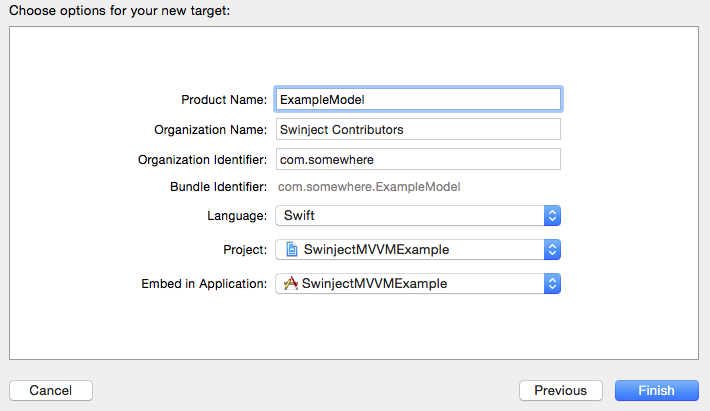
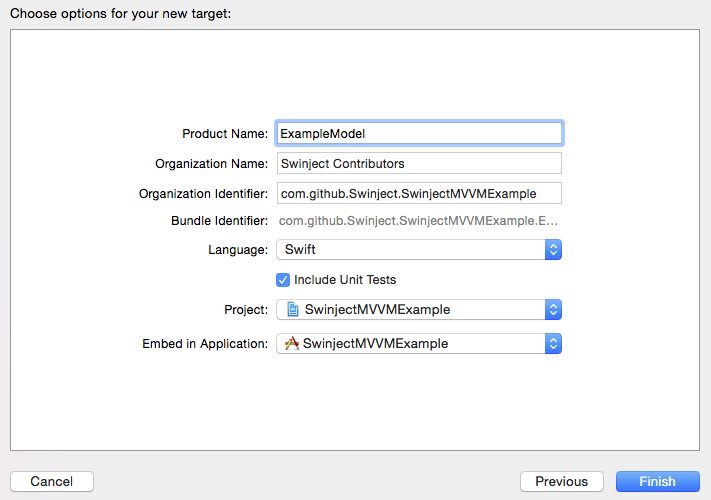
Fix some mistakes and make expressions clearer.

diff --git a/content/post/2015-08-29-dependency-injection-in-mvvm-architecture-with-reactivecocoa-part2-project-setup.md b/content/post/2015-08-29-dependency-injection-in-mvvm-architecture-with-reactivecocoa-part2-project-setup.md
@@ -7,9 +7,9 @@ title = "Dependency Injection in MVVM Architecture with ReactiveCocoa Part 2: Pr
 
 +++
 
-In [the last blog post](/post/dependency-injection-in-mvvm-architecture-with-reactivecocoa-part-1-introduction/), the basic concepts of MVVM and [ReactiveCocoa](https://github.com/ReactiveCocoa/ReactiveCocoa) were introduced. From this blog post, we are going to develop an example app to demonstrate dependency injection with [Swinject](https://github.com/Swinject/Swinject) in MVVM architecture. We will use ReactiveCococa to handle events on MVVM components. In this blog post, you will learn how to setup an Xcode project composing MVVM components as representing frameworks.
+In [the last blog post](/post/dependency-injection-in-mvvm-architecture-with-reactivecocoa-part-1-introduction/), the basic concepts of MVVM (Model-View-ViewModel) and [ReactiveCocoa](https://github.com/ReactiveCocoa/ReactiveCocoa) were introduced. From this blog post, we are going to develop an example app to demonstrate dependency injection with [Swinject](https://github.com/Swinject/Swinject) in MVVM architecture. We will use ReactiveCococa to handle events passed between MVVM components. In this blog post, you will learn how to setup an Xcode project composing Molel, View and ViewModel as  frameworks.
 
-The app we are going to develop asynchronously searches, downloads and displays images obtained from [Pixabay](https://pixabay.com) via [its API](https://pixabay.com/api/docs/), as shown in the GIF animation below. The source code used in the blog posts is available at [a repository on GitHub](https://github.com/Swinject/SwinjectMVVMExample).
+The example app asynchronously searches, downloads and displays images obtained from [Pixabay](https://pixabay.com) via [its API](https://pixabay.com/api/docs/), as shown in the GIF animation below. The source code used in the blog posts is available at [a repository on GitHub](https://github.com/Swinject/SwinjectMVVMExample).
 
 ![SwinjectMVVMExample ScreenRecord](/images/post/2015-08/SwinjectMVVMExampleScreenRecord.gif)
 
@@ -20,9 +20,9 @@ The app we are going to develop asynchronously searches, downloads and displays 
 - [Carthage](https://github.com/Carthage/Carthage) 0.8 or later
 - [Pixabay](https://pixabay.com/api/docs/) API username and key
 
-We are going to use Swift 2.0 with Xcode 7 though they are still beta versions. To use with Swift 2, we are going to use development version of ReactiveCocoa in [swift2 branch](https://github.com/ReactiveCocoa/ReactiveCocoa/tree/swift2). Notice that ReactiveCocoa 3.0 has functional style APIs like `|> map` or `|> flatMap`, but APIs in swift2 branch are in protocol oriented style like `.map()` or `.flatMap()`. Since swift2 branch is still in development, the APIs might be changed in the future.
+We are going to use Swift 2.0 with Xcode 7 though they are still in beta versions. To use with Swift 2, a development version of ReactiveCocoa in [swift2 branch](https://github.com/ReactiveCocoa/ReactiveCocoa/tree/swift2) will be used. Notice that ReactiveCocoa 3.0 has functional style APIs like `|> map` or `|> flatMap`, but APIs in swift2 branch are in protocol oriented and fluent style like `.map()` or `.flatMap()`. Since swift2 branch is still in development, the APIs might be changed in the future.
 
-Carthage can be installed by [its installer](https://github.com/Carthage/Carthage/releases) `Carthage.pkg`, or [Homebrew](http://brew.sh/) with the following commands.
+Carthage can be installed by [its installer (Carthage.pkg)](https://github.com/Carthage/Carthage/releases), or [Homebrew](http://brew.sh/) with the following commands.
 
     brew update
     brew install carthage
@@ -31,9 +31,9 @@ You can get a free API username and key at [Pixabay](https://pixabay.com/). Firs
 
 ## Project Setup Overview
 
-In [the last blog post](/post/dependency-injection-in-mvvm-architecture-with-reactivecocoa-part-1-introduction/), we have learnt View depends on ViewModel and ViewModel on Model in MVVM architecture. How can we force the direction of dependencies when we write protocols, classes or structs representing Models, Views and ViewModels? It is easy to get chaotic if all the types are placed in a directory, or even in an application target. Java or .NET applications are often composed of several [JAR](https://en.wikipedia.org/wiki/JAR_%28file_format%29)s or [DLL](https://en.wikipedia.org/wiki/Dynamic-link_library)s to make the responsibilities of the components explicit.
+In [the last blog post](/post/dependency-injection-in-mvvm-architecture-with-reactivecocoa-part-1-introduction/), we learned View depended on ViewModel and ViewModel on Model in MVVM architecture. How can we force the direction of dependencies when we write protocols, classes or structs representing Models, Views or ViewModels? It is easy to get chaotic if all the types are placed in a directory, or even in an application target.
 
-Since iOS 8 has introduced dynamic frameworks, it is easy to setup an iOS app composed of frameworks. The architecture of an iOS app containing Model, View and ViewModel frameworks, as diagrammed in the image below, ensures that the direction of dependencies is from View to ViewModel and ViewModel to Model with the dependencies injected by the application. If you make a type in ViewModel framework, it can reference types in Model framework but cannot those in View framework.
+Java or .NET applications are often composed of several [JAR](https://en.wikipedia.org/wiki/JAR_%28file_format%29)s or [DLL](https://en.wikipedia.org/wiki/Dynamic-link_library)s to make the responsibilities of the components explicit. Since iOS 8 has introduced dynamic frameworks, it is easy to setup an iOS app composed of several dynamic frameworks. The architecture of an iOS app containing Model, View and ViewModel frameworks, as diagrammed in the image below, ensures that the direction of the dependencies is from View to ViewModel and ViewModel to Model with the dependencies injected by the application. For example, if you make a type in ViewModel framework, it can reference types in Model framework but cannot those in View framework.
 
 The architecture keeps the consistency of the direction of the dependencies, and makes the app easy to develop, test and maintain.
 
@@ -45,15 +45,17 @@ Let's start creating our Xcode project composing the MVVM frameworks. Select `Fi
 
 ![Screenshot New Project](/images/post/2015-08/SwinjectMVVMExampleScreenshotNewProject.png)
 
+Next we are going to add Model, View and ViewModel frameworks. They will be named `ExampleModel`, `ExampleView` and `ExampleViewModel`, respectively, in our example app. When you create your own app, it is recommended to name the frameworks as `YourAppName` + `Model`, `View`, and `ViewModel`. For exampe, if your app name is `Foobook`, your framework names may be `FoobookModel`, `FoobookView` and `FoobookViewModel`.
+
 Select `File > New > Target...` menu and `iOS > Framework & Library > Cocoa Touch Framework`. Click `Next` button. In the next page, set product name to `ExampleModel`, language to Swift. Keep `Include Unit Test` checked and click `Finish`. In the same way, add `ExampleViewModel` and `ExampleView` framework targets.
 
 ![Screenshot New Target](/images/post/2015-08/SwinjectMVVMExampleScreenshotNewTarget.png)
 
-Right click on `SwinjectMVVMExample` in Project Navigator (the left pane in Xcode), and select `New Group`. Name the new group to `Tests`. Drag `ExampleModel`, `ExampleViewModel`, `ExampleView`, `ExampleModelTests`, `ExampleViewModelTests`, `ExampleViewTests` and `SwinjectMVVMExampleTests` in Project Navigator, and place them as shown in the image below. Select `SwinjectMVVMExample` in Project Navigator, and order targets by dragging as shown in the image.
+Right click on `SwinjectMVVMExample` in Project Navigator (the left pane in Xcode), and select `New Group`. Set the group name to `Tests`. Drag `ExampleModel`, `ExampleViewModel`, `ExampleView`, `ExampleModelTests`, `ExampleViewModelTests`, `ExampleViewTests` and `SwinjectMVVMExampleTests` in Project Navigator, and place them as shown in the image below. Select `SwinjectMVVMExample` in Project Navigator, and order the targets by dragging as shown in the image.
 
 ![Screenshot Project Hierarchy](/images/post/2015-08/SwinjectMVVMExampleScreenshotProjectHierarchy.png)
 
-Select `SwinjectMVVMExample` in Project Navigator, and select `ExampleViewModel` in Targets area. In Build Phases tab, click `+` button in Target Dependencies section, and add `ExampleModel`. Click `+` button in Link Binary with Libraries section, and add `ExampleModel.framework`. In the same way, add `ExampleViewModel` and `ExampleViewModel.framework` to `ExampleView` target. Target settings of `ExampleModel` and `SwinjectMVVMExample` can be left as they are.
+We are going to configure dependency and link settings of the targets. Select `SwinjectMVVMExample` in Project Navigator, and select `ExampleViewModel` in Targets area. In Build Phases tab, click `+` button in Target Dependencies section, and add `ExampleModel`. Click `+` button in Link Binary with Libraries section, and add `ExampleModel.framework`. In the same way, add `ExampleViewModel` and `ExampleViewModel.framework` to those of `ExampleView` target. Target settings of `ExampleModel` and `SwinjectMVVMExample` can be left because `ExampleModel` has no dependencies and `SwinjectMVVMExample` has those settings by default.
 
 ![Screenshot Target Settings ExampleModel](/images/post/2015-08/SwinjectMVVMExampleScreenshotTargetSettingsExampleModel.png)
 
@@ -63,11 +65,11 @@ Select `SwinjectMVVMExample` in Project Navigator, and select `ExampleViewModel`
 
 ![Screenshot Target Settings SwinjectMVVMExample](/images/post/2015-08/SwinjectMVVMExampleScreenshotTargetSettingsSwinjectMVVMExample.png)
 
-Next, we are going to configure unit test targets. Select `SwinjectMVVMExample` in Project Navigator, and select `ExampleModelTests` in Targets area. In General tab, set Host Application to `None`. In the same way, set Host Application of `ExampleViewModelTests` and `ExampleViewTests` to `None`.
+We are going to configure unit test targets too. Select `SwinjectMVVMExample` in Project Navigator, and select `ExampleModelTests` in Targets area. In General tab, set Host Application to `None`. In the same way, set Host Application of `ExampleViewModelTests` and `ExampleViewTests` to `None`.
 
-Again select `ExampleModelTests` in Targets area. In Build Phases tab, select `SwinjectMVVMExample` in Target Dependencies section, and click `-` button to remove it. In the same remove target dependency on `SwinjectMVVMExample` from `ExampleViewModelTests` and `ExampleViewTests`.
+Again select `ExampleModelTests` in Targets area. In Build Phases tab, remove `SwinjectMVVMExample` in Target Dependencies section by selecting it and click `-` button. In the same remove target dependency on `SwinjectMVVMExample` from `ExampleViewModelTests` and `ExampleViewTests`.
 
-Select `ExampleViewModelTests` in Targets area. In Build Phases tab, add `ExampleModel.framework` to Link Binary with Libraries section. In the same way, add `ExampleViewModel.framework` to `ExampleViewTests`
+Select `ExampleViewModelTests` in Targets area. In Build Phases tab, add `ExampleModel.framework` to Link Binary with Libraries section. In the same way, add `ExampleViewModel.framework` to that of `ExampleViewTests`. We need those links to stub or mock types in the linked frameworks.
 
 ![Screenshot Target Settings ExampleModelTests](/images/post/2015-08/SwinjectMVVMExampleScreenshotTargetSettingsExampleModelTests.png)
 
@@ -77,13 +79,13 @@ Select `ExampleViewModelTests` in Targets area. In Build Phases tab, add `Exampl
 
 ![Screenshot Target Settings SwinjectMVVMExampleTests](/images/post/2015-08/SwinjectMVVMExampleScreenshotTargetSettingsSwinjectMVVMExampleTests.png)
 
-Click scheme button on the Xcode toolbar, and select `Manage Schemes...` If you see `ExampleModel`, `ExampleViewModel` and `ExampleView` schemes, select them and click `-` button to delete them. Then select `SwinjectMVVMExample` scheme and click `Edit` button. Make sure that `ExampleModelTests`, `ExampleViewModelTests`, `ExampleViewTests` and `SwinjectMVVMExampleTests` are checked in Build and Test settings.
+We are going to setup a build scheme. Click scheme button on the Xcode toolbar, and select `Manage Schemes...` If you see `ExampleModel`, `ExampleViewModel` and `ExampleView` schemes, select them and click `-` button to delete them. Then select `SwinjectMVVMExample` scheme and click `Edit` button. Make sure that `ExampleModelTests`, `ExampleViewModelTests`, `ExampleViewTests` and `SwinjectMVVMExampleTests` are checked in Build and Test settings.
 
 ![Screenshot Build Scheme](/images/post/2015-08/SwinjectMVVMExampleScreenshotBuildScheme.png)
 
 ![Screenshot Test Scheme](/images/post/2015-08/SwinjectMVVMExampleScreenshotTestScheme.png)
 
-Okay, we finished setting up the project. Run the app (`Command-R`), then  unit tests (`Command-U`) to check whether the project is configured correctly. If you see an error for an umbrella header, set the target membership of the header file to the target with `Public` accessibility as shown in the image below. Xcode sometimes creates umbrella headers with wrong target memberships.
+Okay, we have finished setting up the project. Run the app (`Command-R`), then  unit tests (`Command-U`) to check whether the project is configured correctly. If you see an error for an umbrella header, set the target membership of the header file to the target with `Public` accessibility as shown in the image below. Xcode sometimes creates umbrella headers with wrong target memberships.
 
 ![Screenshot Umbrella Header](/images/post/2015-08/SwinjectMVVMExampleScreenshotUmbrellaHeader.png)
 
@@ -91,7 +93,7 @@ Okay, we finished setting up the project. Run the app (`Command-R`), then  unit 
 
 We are going to install [ReactiveCocoa](https://github.com/ReactiveCocoa/ReactiveCocoa), [Himotoki](https://github.com/ikesyo/Himotoki), [Alamofire](https://github.com/Alamofire/Alamofire), [Swinject](https://github.com/Swinject/Swinject), [Quick](https://github.com/Quick/Quick) and [Nimble](https://github.com/Quick/Nimble). We used Alamofire, Quick and Nimble in [the previous example project](/post/dependency-injection-framework-for-swift-simple-weather-app-example-with-swinject-part-1/). This time, we are going to use Himotoki, which is a type-safe JSON decoding library, in place of [SwiftyJSON](https://github.com/SwiftyJSON/SwiftyJSON). The details of Himotoki will be mentioned in the next blog post when we use it.
 
-To install them with [Carthage](https://github.com/Carthage/Carthage), add a text file named `Cartfile` with the following contents. Notice that we use the specific commit versions of some frameworks because they are still in development to support Swift 2 and Xcode 7 (beta).
+To install them with [Carthage](https://github.com/Carthage/Carthage), add a text file named `Cartfile` with the following contents. Notice that specific commit versions of some frameworks are specified because they are still in development to support Swift 2 and Xcode 7 (beta).
 
 **Cartfile**
 
@@ -105,13 +107,13 @@ To install them with [Carthage](https://github.com/Carthage/Carthage), add a tex
 
 Run `carthage update --no-build` and `carthage build` in Terminal[^2]. Wait for a couple of minutes (or more) until Carthage finishes building the frameworks. If you use [Git](https://git-scm.com), here is a [`.gitignore` for Swift](https://github.com/github/gitignore/blob/master/Swift.gitignore) excluding frameworks built by Carthage[^3].
 
-After the build completes, right click on `SwinjectMVVMExample` in Project Navigator, and select `New Group`. Name the group `Frameworks`. Drag and drop the frameworks built in `Carthage/Build/iOS` directory to the group. When you drop them, an action sheet asks you wether they should be added to targets. Uncheck all targets and click `Finish` button.
+After the build completes, right click on `SwinjectMVVMExample` in Project Navigator, and select `New Group`. Name the group `Frameworks`. Drag and drop the frameworks built in `Carthage/Build/iOS` directory in Finder to the group in Xcode. When you drop them, an action sheet asks you wether they should be added to targets. Uncheck all targets and click `Finish` button.
 
 ![Screenshot Umbrella Header](/images/post/2015-08/SwinjectMVVMExampleScreenshotUmbrellaHeaderFrameworksGroup.png)
 
-Select `SwinjectMVVMExample` in Project Navigator, and select `ExampleModel` in Target section with Build Phases tab open. Drag `Alamofire.framework`, `Himotoki.framework`, `ReactiveCocoa.framework` and `Result.framework`[^4] in the `Frameworks` group to Link Binary with Libraries section in Build Phases tab. In the same way, add `ReactiveCocoa.framework` and `Result.framework` to those of `ExampleViewModel` and `ExampleView`. Add `Swinject.framework` to that of `SwinjectMVVMExample`. Add `ReactiveCocoa.framework`, `Result.framework`, `Quick.framework` and `Nimble.framework` to those of `ExampleModelTests`, `ExampleViewModelTests` and `ExampleViewTests`. Add `Swinject.framework`, `Quick.framework` and `Nimble.framework` to that of `SwinjectMVVMExampleTests`.
+Select `SwinjectMVVMExample` in Project Navigator, and select `ExampleModel` in Target section with Build Phases tab open. Drag `Alamofire.framework`, `Himotoki.framework`, `ReactiveCocoa.framework` and `Result.framework`[^4] in the `Frameworks` group to Link Binary with Libraries section in Build Phases tab. In the same way, add `ReactiveCocoa.framework` and `Result.framework` to those of `ExampleViewModel` and `ExampleView`. Add `Swinject.framework` to that of `SwinjectMVVMExample`. Add `ReactiveCocoa.framework`, `Result.framework`, `Quick.framework` and `Nimble.framework` to those of `ExampleModelTests`, `ExampleViewModelTests` and `ExampleViewTests`. Add `Swinject.framework`, `Quick.framework` and `Nimble.framework` to that of `SwinjectMVVMExampleTests`. Alamofire and Himotoki are used only in our Model, Swinject only in our application and its test, and Quick and Nimble only in unit tests.
 
-Select `ExampleModelTests` in Target section, click `+` button under Build Phases tab, select `New Copy Files Phase` and name the new phase `Copy Frameworks`. Within the phase, set Destination to `Frameworks`. Drag `Alamofire.framework`, `Himotoki.framework`, `ReactiveCocoa.framework`, `Result.framework`, `Quick.framework` and `Nimble.framework` in `Frameworks` group on Project Navigator to `Copy Frameworks` phase. In the same way, add `Copy Frameworks` phases to `ExampleViewModelTests` and `ExampleViewTests`, and drag the 6 frameworks to the phases. Add `Copy Frameworks` phase to `SwinjectMVVMExampleTests` in the same way, and add `Quick.framework` and `Nimble.framework` to the phase.
+Select `ExampleModelTests` in Target section, click `+` button under Build Phases tab, select `New Copy Files Phase`, and name the new phase `Copy Frameworks`. Within the phase, set Destination to `Frameworks`. Drag `Alamofire.framework`, `Himotoki.framework`, `ReactiveCocoa.framework`, `Result.framework`, `Quick.framework` and `Nimble.framework` in `Frameworks` group on Project Navigator to `Copy Frameworks` phase. In the same way, add `Copy Frameworks` phases to `ExampleViewModelTests` and `ExampleViewTests`, and drag the 6 frameworks to the phases. Add `Copy Frameworks` phase to `SwinjectMVVMExampleTests` in the same way, and add `Quick.framework` and `Nimble.framework` to the phase. Because `SwinjectMVVMExampleTests` is hosted in the app, only Quick and Nimble, which are not used in the app, are added to the phase.
 
 ![Screenshot Link Settings ExampleModel](/images/post/2015-08/SwinjectMVVMExampleScreenshotLinkSettingsExampleModel.png)
 
@@ -129,7 +131,7 @@ Select `ExampleModelTests` in Target section, click `+` button under Build Phase
 
 ![Screenshot Link Settings SwinjectMVVMExample](/images/post/2015-08/SwinjectMVVMExampleScreenshotLinkSettingsSwinjectMVVMExampleTests.png)
 
-The last settings are as specified in the README of [Carthage](https://github.com/Carthage/Carthage). Select `SwinjectMVVMExample` in Project Navigator, and select `SwinjectMVVMExample` in Target section with Build Phases tab open. Click `+` button under the tab, and select `New Run Script Phase`. Rename the phase to `Run Script for Frameworks by Carthage` and add the following line to the script text field.
+The last settings are as specified in the README of [Carthage](https://github.com/Carthage/Carthage). Select `SwinjectMVVMExample` in Project Navigator, and select `SwinjectMVVMExample` in Targets section with Build Phases tab open. Click `+` button under the tab, and select `New Run Script Phase`. Rename the phase to `Run Script for Frameworks by Carthage` and add the following line to the script text field.
 
     /usr/local/bin/carthage copy-frameworks
 
@@ -141,13 +143,13 @@ Then add the following paths to Input Files section by clicking `+` button.
     $(SRCROOT)/Carthage/Build/iOS/Result.framework
     $(SRCROOT)/Carthage/Build/iOS/Swinject.framework
 
-Again click the `+` button under Build Phases tab, select `New Copy Files Phase` and name the phase `Copy dSYMs`. Set its destination to `Products Directory`, and drag `Alamofire.framework.dSYM`, `Himotoki.framework.dSYM`, `ReactiveCocoa.framework.dSYM`, `Result.framework.dSYM`, `Swinject.framework.dSYM` from `Carthage/Build/iOS/` directory in Finder to the `Copy dSYMs` phase in Xcode. Right click on `SwinjectMVVMExample` in Project Navigator and select `New Group`. Name it `dSYMs` and put the dSYM files, which were added to Project Navigator automatically, into the group to tidy up.
+Again click the `+` button under Build Phases tab, select `New Copy Files Phase` and name the phase `Copy dSYMs`. Set its destination to `Products Directory`, and drag `Alamofire.framework.dSYM`, `Himotoki.framework.dSYM`, `ReactiveCocoa.framework.dSYM`, `Result.framework.dSYM`, `Swinject.framework.dSYM` from `Carthage/Build/iOS/` directory in Finder to the `Copy dSYMs` phase in Xcode. Right click on `SwinjectMVVMExample` in Project Navigator and select `New Group`. Name the new group `dSYMs` and put the dSYM files that were added to Project Navigator automatically into the group to tidy up.
 
 ![Screenshot dSYMs Group](/images/post/2015-08/SwinjectMVVMExampleScreenshotCarthageScriptAnddSYMs.png)
 
 ![Screenshot dSYMs Group](/images/post/2015-08/SwinjectMVVMExampleScreenshotdSYMsGroup.png)
 
-Configurations! You got the project set up. Try running the app and unit tests by `Command-R` and `Command-U` to confirm we get no error. If you get an error, download [the project on GitHub](https://github.com/Swinject/SwinjectMVVMExample) and compare your project with it to investigate what is wrong.
+Configurations! You got the project set up. Try running the app and unit tests by `Command-R` and `Command-U` to confirm the project is setup as intended. If you get an error, download [the project on GitHub](https://github.com/Swinject/SwinjectMVVMExample) and compare your project with it to investigate what is wrong.
 
 ## Conclusion
 
@@ -156,6 +158,6 @@ We found that the architecture of the app composed of Model, View and ViewModel 
 If you have questions, suggestions or problems, feel free to leave comments.
 
 [^1]: UI tests are excluded because still Xcode 7 is beta. This blog post will be updated to include them after Xcode 7 is officially released.
-[^2]: `carthage update --no-build` and `carthage build` commands are separately used to avoid downloading zipped frameworks built with an older beta version of Xcode. If you install the official release versions of the frameworks for the official release version of Xcode, you can just run `carthage update`.
+[^2]: `carthage update --no-build` and `carthage build` commands are separately used to avoid downloading zipped frameworks built with an older beta version of Xcode. If you install official release versions of the frameworks for an official release version of Xcode, you can just run `carthage update`.
 [^3]: If you get an error on `carthage build` command, run it again with `--verbose` as `carthage build --verbose` to investigate the problem.
 [^4]: `Result.framework` is used by ReactiveCocoa.
